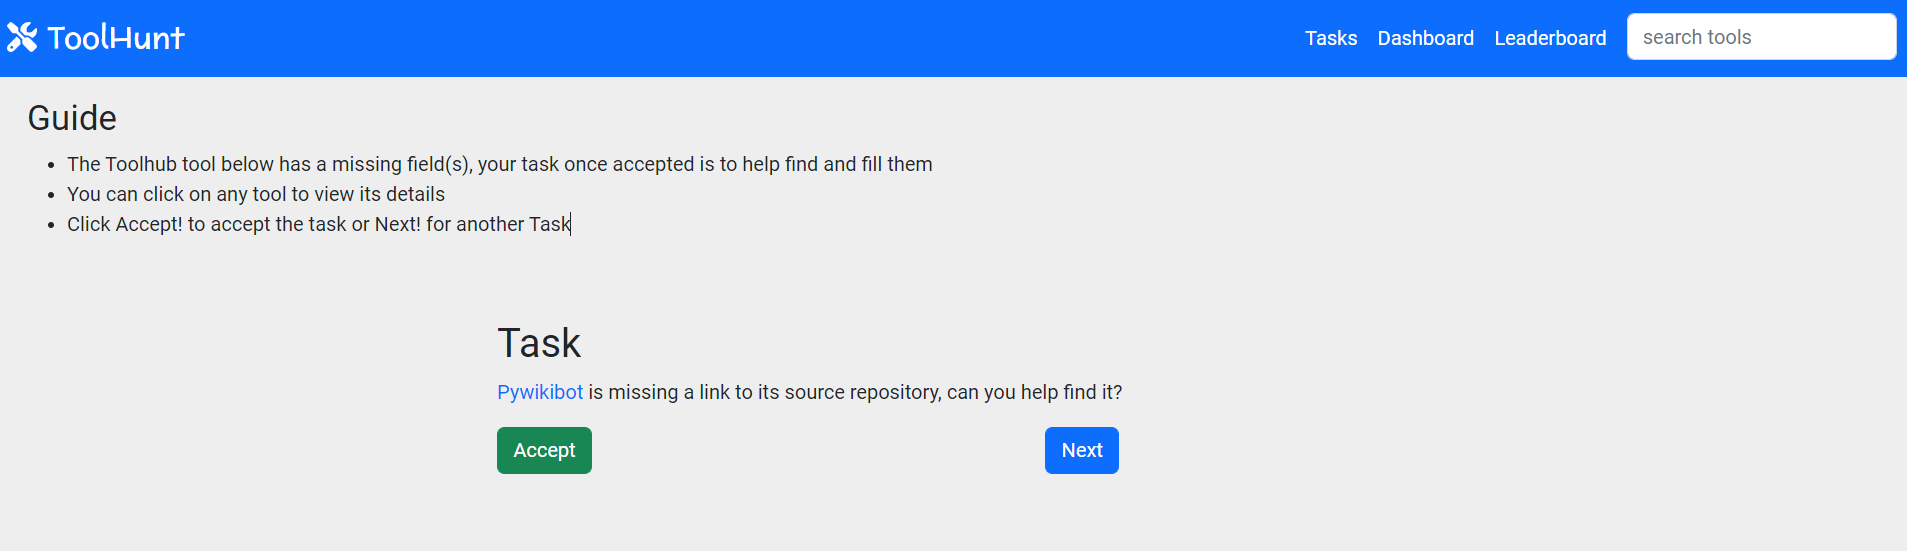
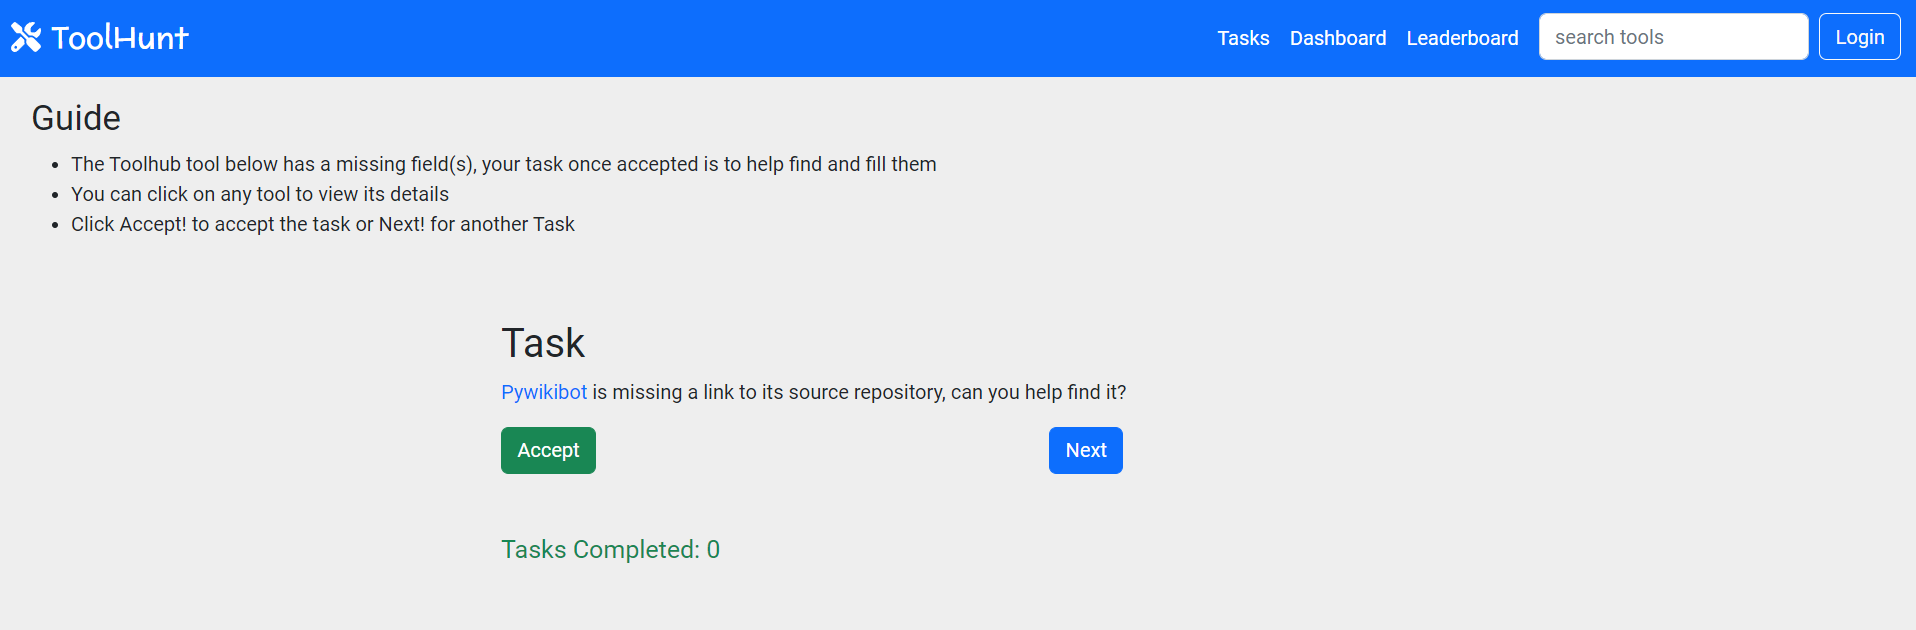
- change landing-img in readme - update navigation component to include login button

diff --git a/src/components/Navigation.jsx b/src/components/Navigation.jsx
@@ -38,6 +38,9 @@ function Navigation(props){
                         <li className="nav-item ms-2">
                             <input className="form-control me-2" type="search" placeholder="search tools"/>
                         </li>
+                        <li className="nav-item ms-2">
+                            <button className="btn btn-md btn-outline-light">Login</button>
+                        </li>
                     </ul>
                 </div>
             </div>

diff --git a/README.md b/README.md
@@ -31,7 +31,7 @@ Html5, CSS3, Bootstrap,  Javascript, React
 
 <img src="./images/landing-img.PNG">
 
-This is where the users are assigned tasks where they can Accept, Change, and Skip Tasks
+This is where the users can login and are assigned tasks where they can Accept, Change, and Skip Tasks
 
 #### Dashoard
 
